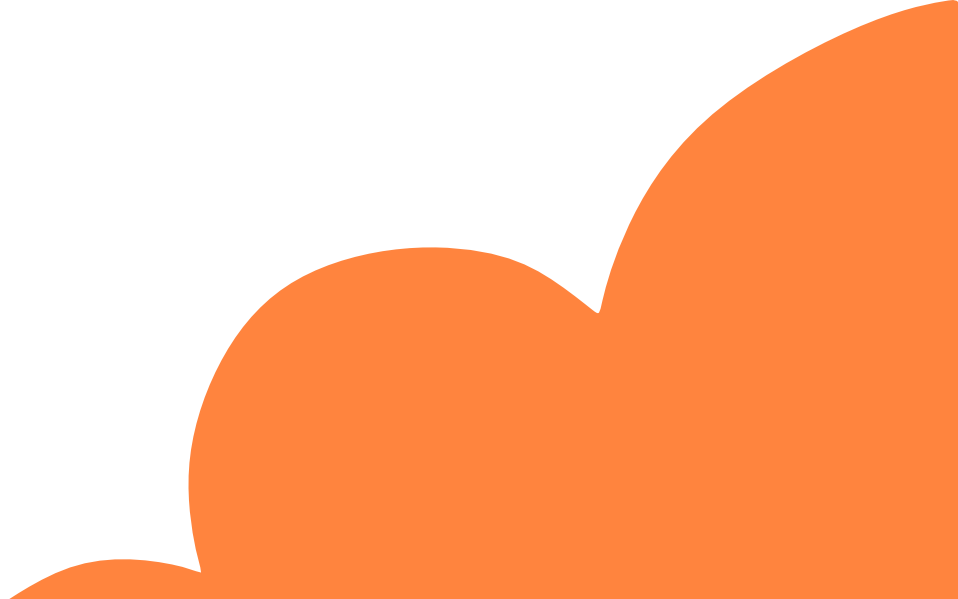
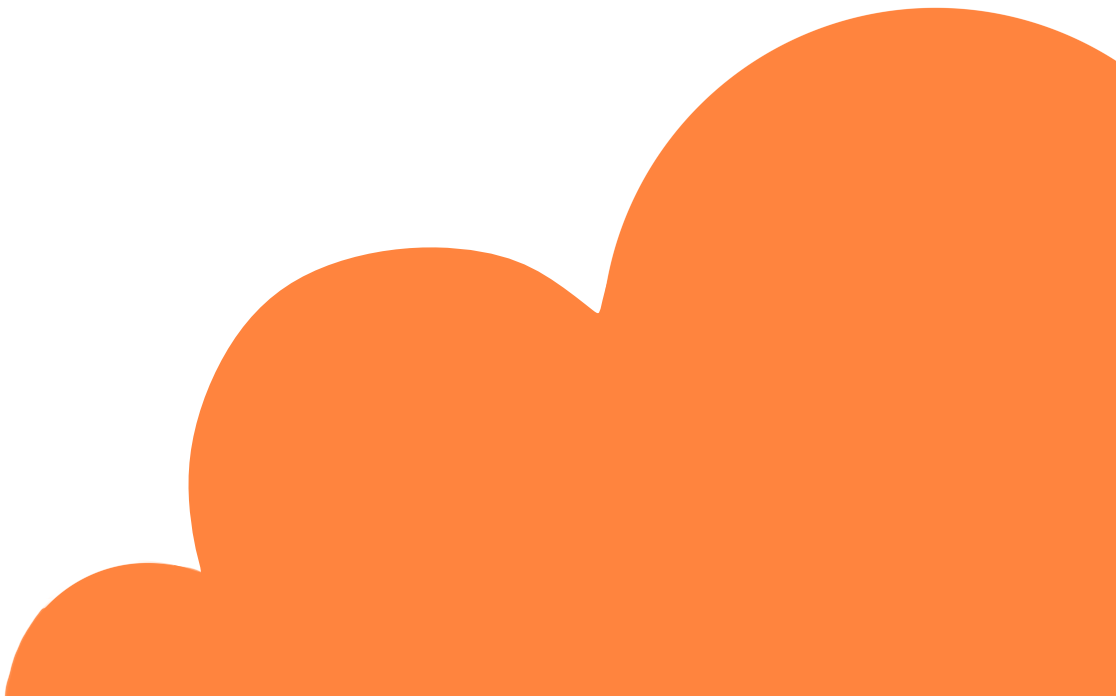
Параллакс для облака

Changed region(s): [[0.5146, 0.0, 1.0, 0.5409], [0.0, 0.3306, 0.5146, 1.0]]

diff --git a/style.css b/style.css
@@ -262,9 +262,14 @@ footer {
 
 .cloud {
     position: absolute;
-    right: -50px;
-    bottom: 0;
-    width: 500px;
+    right: -150px; /* Уводим облако дальше за контейнер */
+    bottom: -50px; /* Опускаем вниз */
+    width: 570px; /* Увеличиваем размер облака */
     z-index: 2;
-    transition: transform 0.1s ease-out;
+    transition: transform 0.6s ease-out;
+    pointer-events: none; /* Чтобы мышка не влияла на облако */
+}
+
+body:hover .cloud {
+    transform: translateX(10px) translateY(5px);
 }
